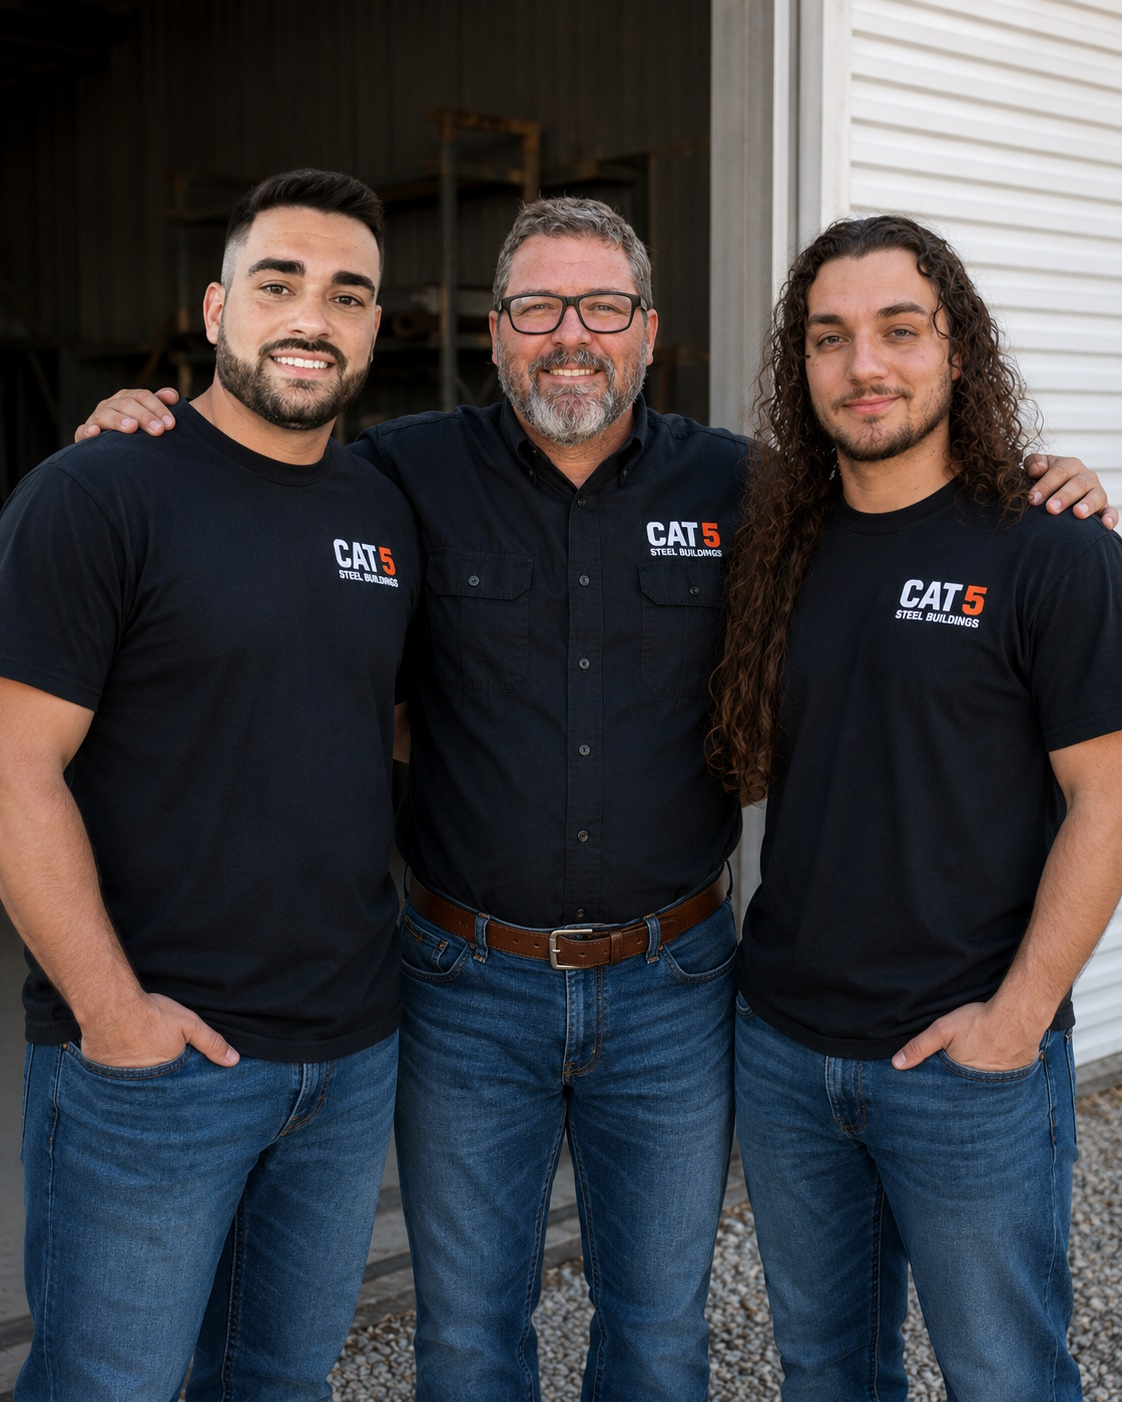
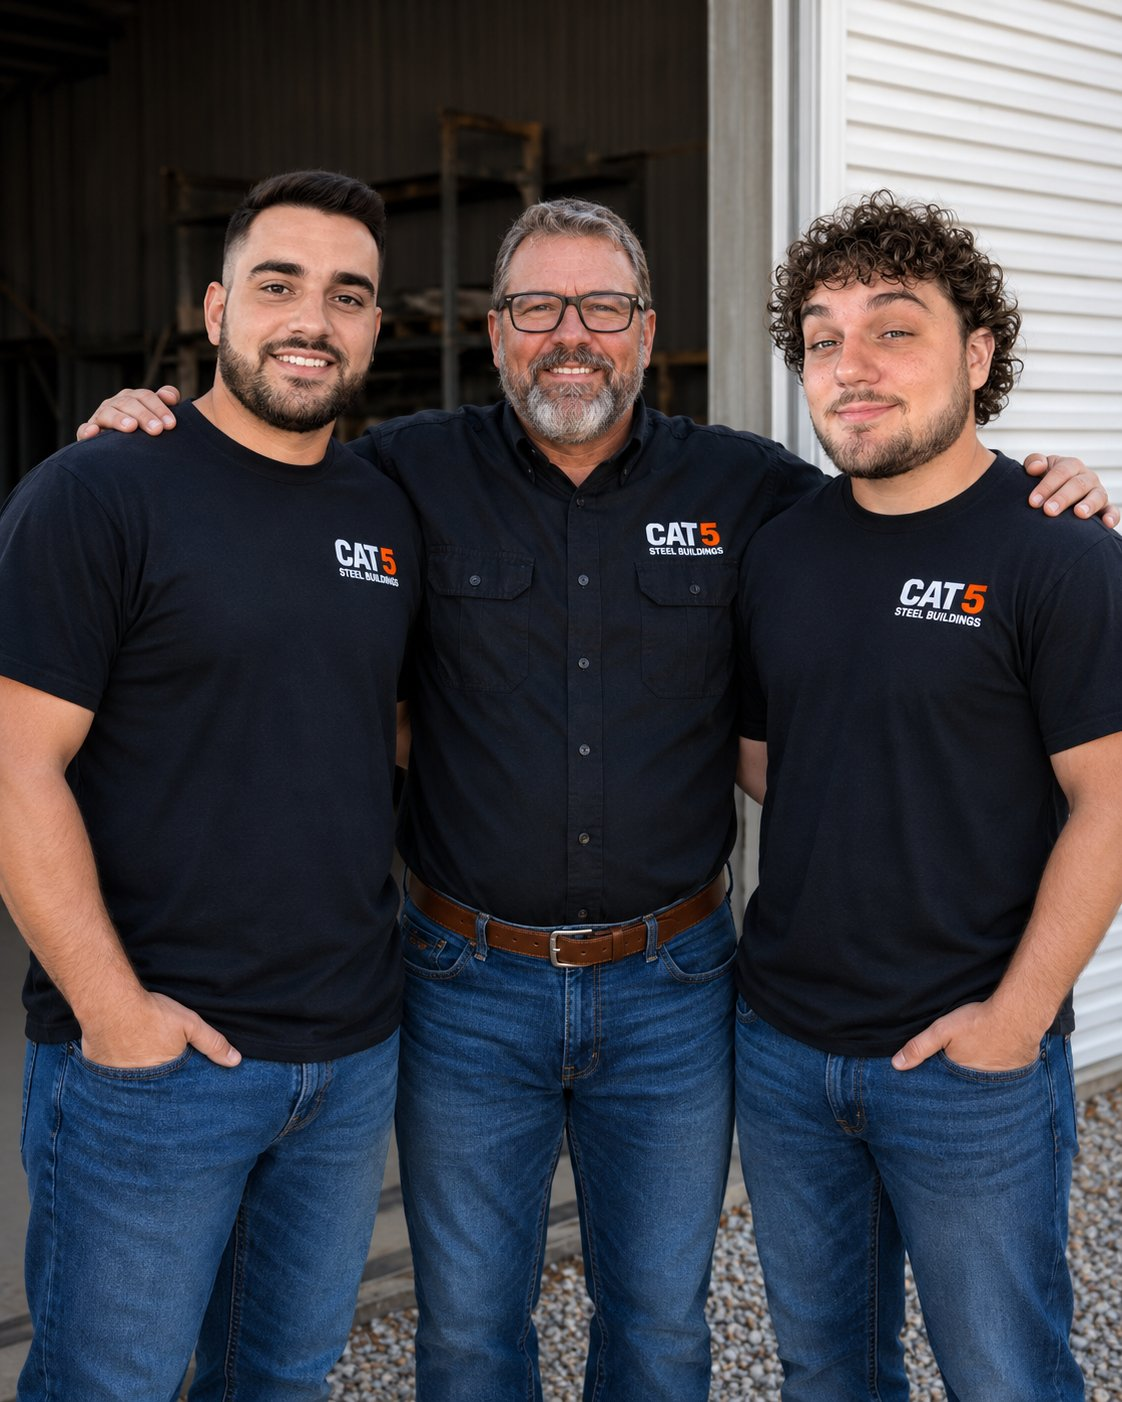
Website: new team photo (Justin's haircut)
Claude-Session: https://claude.ai/code/session_015sSHPmYTEiMPovYr6ko9MB

diff --git a/index.html b/index.html
@@ -2679,7 +2679,7 @@ footer {
 <section class="section family" id="about">
   <div class="section-inner">
     <div class="family-grid">
-      <div class="family-photo"><img src="team.jpg" alt="The Cat 5 Team"></div>
+      <div class="family-photo"><img src="team.jpg?v=20261103" alt="The Cat 5 Team"></div>
       <div class="family-copy">
         <div class="eyebrow">Family-Owned</div>
         <h2>From our family<br>to <span class="accent">your property.</span></h2>
